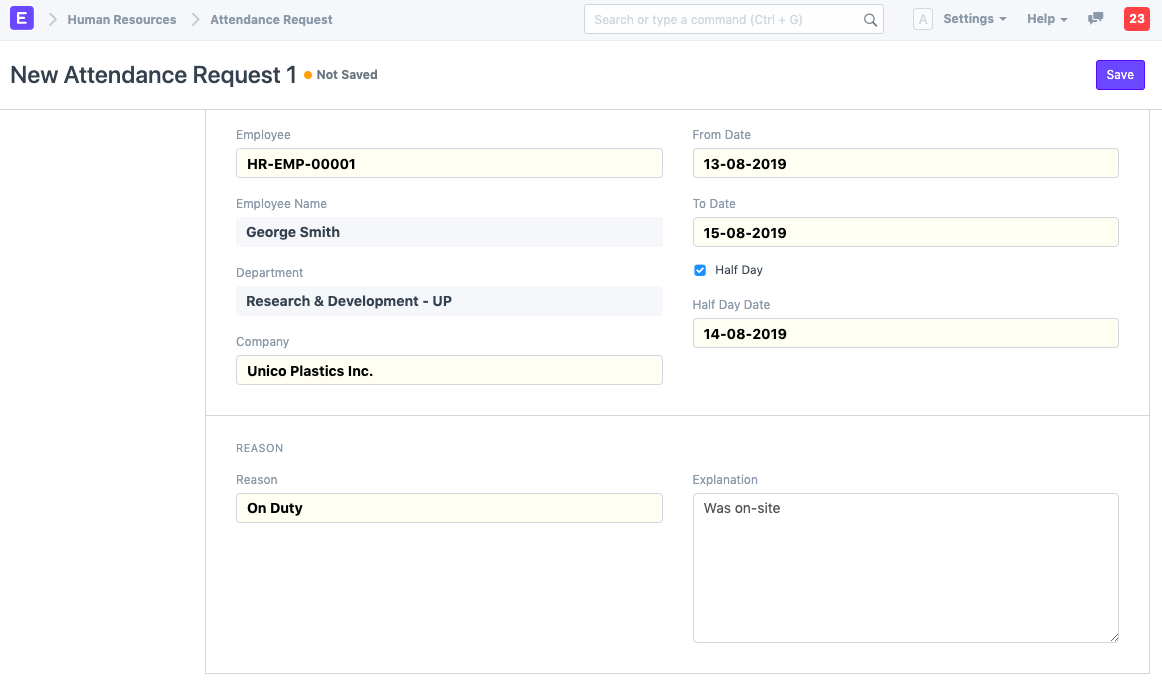
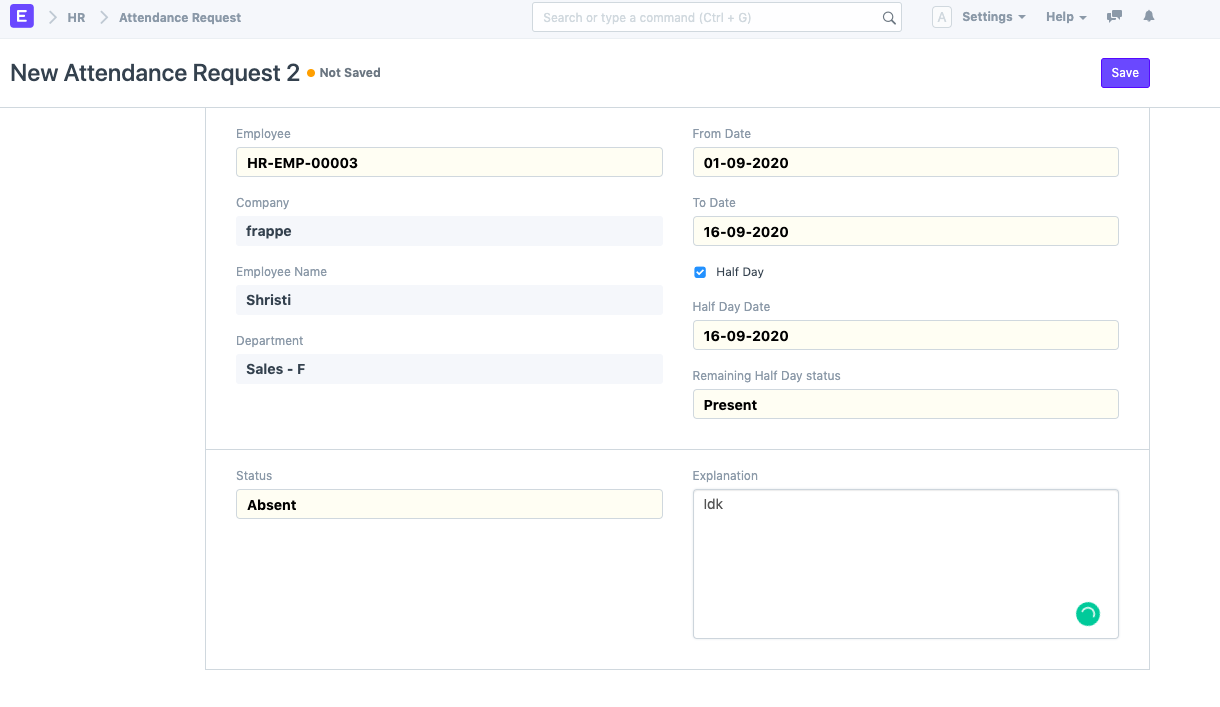
feat: Attendance Status and some enhancements

diff --git a/erpnext_documentation/www/docs/user/manual/en/human-resources/attendance-status.md b/erpnext_documentation/www/docs/user/manual/en/human-resources/attendance-status.md
@@ -1,0 +1,43 @@
+<!-- add-breadcrumbs -->
+# Attendance Status
+
+Attendance Status the status of an employee, Which represent That wether Employee is Present, Absent, or is on leave on particular day.
+
+In ERPNext You can create multiple Status for Attendance. Suppose, Employee is on visit to other place or working remotely in that case we allow you to create custom status for tracking Attendance.
+
+To access Attendance Status, go to:
+
+> Home > Human Resources > Attendance
+
+## 1. How to Create Attendance status:
+
+1. Go to the Attendance Status list, click on New.
+1. Name your Attendance Status.
+1. Write Abbreviation for your status. Which is used in Monthly Attendance Sheet.
+1. Click on save.
+
+> Note: if None of the property Is Half Day, Is Leave or Is Present is checked status will be treated as Absent
+
+<img class="screenshot" alt="Attendance" src="{{docs_base_url}}/assets/img/human-resources/attendance-status.png">
+
+Below are detailed explanation of all checkbox in Attendance Status.
+
+* **IS Half Day:** If Checked, The Attendance Status will represent Half Day Status During Attendance Creation.
+
+* **IS Leave:** In ensure that Attendance Status will treated as leave Status.
+
+* **Is Present:** If Checked, The Attendance Status will be treated as present.
+
+* **Applicable for Leave Application**: This checkbox is visible only if **Is Half Day** or **Is leave** property for Attendance Status is enable. If this property is enabled then it will be taken as default Leave or Half Day Status for Attendance created while Leave approval.
+
+>Note: Only one Half Day and Leave Status with property Applicable for Leave Application is allowed at a time.
+
+* **Applicable for Employee Checkins**: This Property works for Auto Attendance Creation through Employee Checkin. If Checked the status will be taken as default status for Present, Half day, or Leave during automatic attendance creation.
+
+>Note:
+It is mandatory to create the Attendance Status wil this property to make Auto Attendance Functional.
+Only one Half day, Present, and Absent with property Applicable for Employee Checkins ia allowed at a time.
+
+* **Applicable for Attendance Request:** This checkbox is visible if **Is Half Day** for Attendance Status is enable. If Checked, Status will Be treated as default Half day status while Attendance Request Approval.
+
+>Note: Only one Half Day  with property Applicable for Attendance Request is allowed at a time.

diff --git a/erpnext_documentation/www/docs/user/manual/en/human-resources/attendance.md b/erpnext_documentation/www/docs/user/manual/en/human-resources/attendance.md
@@ -23,7 +23,7 @@ Before creating an Attendance record, it is advised that you create the followin
 1. Select the Employee.
 1. Select the Attendance Date.
 1. Select the Shift (optional).
-1. Select the Status (Present, Absent, On Leave, Half Day).
+1. Select the Status.
 1. Save and Submit.
 
     <img class="screenshot" alt="Attendance" src="{{docs_base_url}}/assets/img/human-resources/attendance.png">
@@ -53,6 +53,17 @@ In case the attendance for some employees is not marked, you can mark them as pr
 1. Click on the **Mark Attendance** button and click on **Yes**.
 
     <img class="screenshot" alt="Attendance" src="{{docs_base_url}}/assets/img/human-resources/marking_unmarked_attendance.gif">
+
+> Introduced in Version 13
+
+### 3.2 Remaining Half-day Status
+After Version 12, ERPNext started tracking the remaining half day status. On selecting Half Day [Attendance Status](/docs/user/manual/en/human-resources/attendance-status). Field **Remaining Half day Status** will appear, where you can select the Present or Absent Attendance Status for the remaining half day.
+
+<img class="screenshot" alt="Attendance" src="{{docs_base_url}}/assets/img/human-resources/remaining-half-day-status.png">
+
+> Note: If payroll is based on Attendance, Remaining Half Day Status will also contribute to your salary.
+
+
 
 ## 4. Related Topics
 

diff --git a/erpnext_documentation/www/docs/user/manual/en/human-resources/leave-application.md b/erpnext_documentation/www/docs/user/manual/en/human-resources/leave-application.md
@@ -77,7 +77,6 @@ Leave Approvers can also be set Employee-wise in the employee master.
 
  <img class="screenshot" alt="Leave Application - Leave Approvers" src="{{docs_base_url}}/assets/img/human-resources/employee-level-approvers.png">
 
-
 If Leave Approvers are set at both Employee-level and Department-level, the Employee-level Leave Approver will be considered as the default Leave Approver in this case.
 
  **Tip:** If you want all users to create their own Leave Applications, you can set
@@ -93,6 +92,13 @@ for more information.
 
 To understand how ERPNext allows you configure leaves for employees, check [Leaves](/docs/user/manual/en/human-resources/leave-management-intro/).
 
+
+### 3.2 Remaining Half Day Status
+> Introduced in Version 13
+
+After Version 12, ERPNext started tracking the remaining half day status. On checking Half Day, Field **Remaining Half day Status** will appear, where you can select the Present or Absent Attendance Status for the remaining half day. During Approval of Leave Application, Attendance for Half Day Date with Remaining Half Day Status Will be created Automatically.
+
+ <img class="screenshot" alt="Leave Application - Leave Approvers" src="{{docs_base_url}}/assets/img/human-resources/remianing-half-day_status-for-leave-apllication.png">
 
 ## 3. Related Topics
 

diff --git a/erpnext_documentation/www/docs/user/manual/en/human-resources/attendance-request.md b/erpnext_documentation/www/docs/user/manual/en/human-resources/attendance-request.md
@@ -4,7 +4,7 @@
 
 To access Attendance Request, go to:
 
-> Home > Human Resources > Attendance > Attendance Request 
+> Home > Human Resources > Attendance > Attendance Request
 
 ## 1. Prerequisites
 
@@ -18,13 +18,13 @@ Before creating an Attendance Request, it is advised that you create the followi
 1. Go to Attendance Request list, click on New.
 1. Select Employee who wants to submit the Attendance Request.
 1. Select From Date and To Date of Attendance Request.
-1. Select Reason and enter Explanation (optional).
+1. Select Status and enter Explanation (optional).
 1. Save and Submit.
 
 
     <img class="screenshot"  alt="Attendance Request" src="{{docs_base_url}}/assets/img/human-resources/attendance-request.png">
 
-> **Note 1:** You can check the 'Half Day' checkbox and enter the Date in case the attendance is for Half Day.
+> **Note 1:** You can check the 'Half Day' checkbox and enter the Date in case the attendance is for Half Day and Select Attendance Status for remaining Half day.
 
 > **Note 2:** On submission of the same, Attendance documents will be created for the days you mentioned as shown.
 
